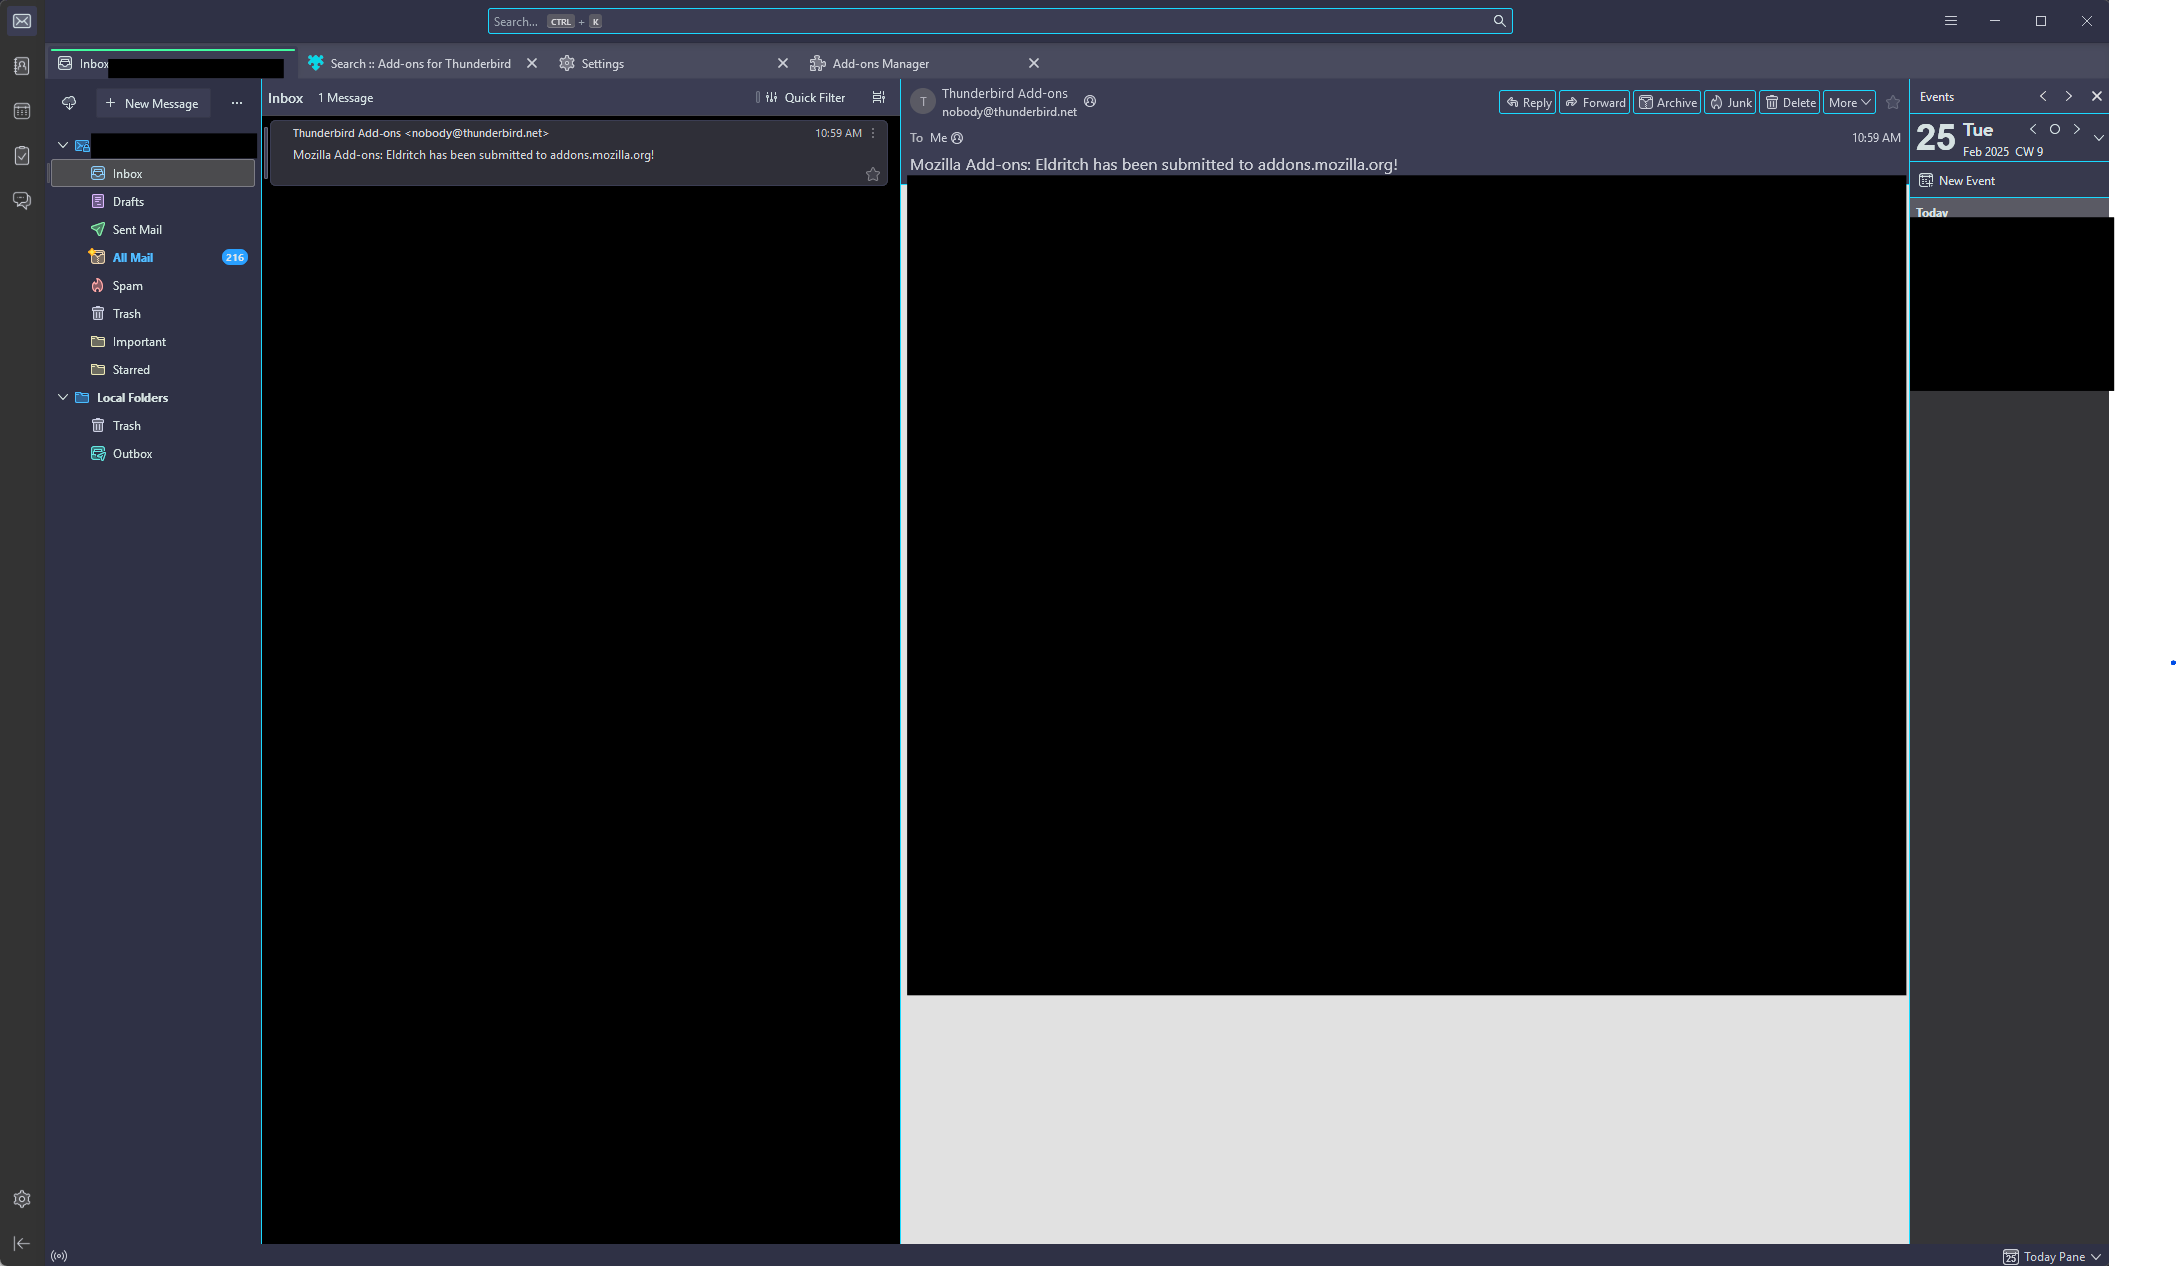
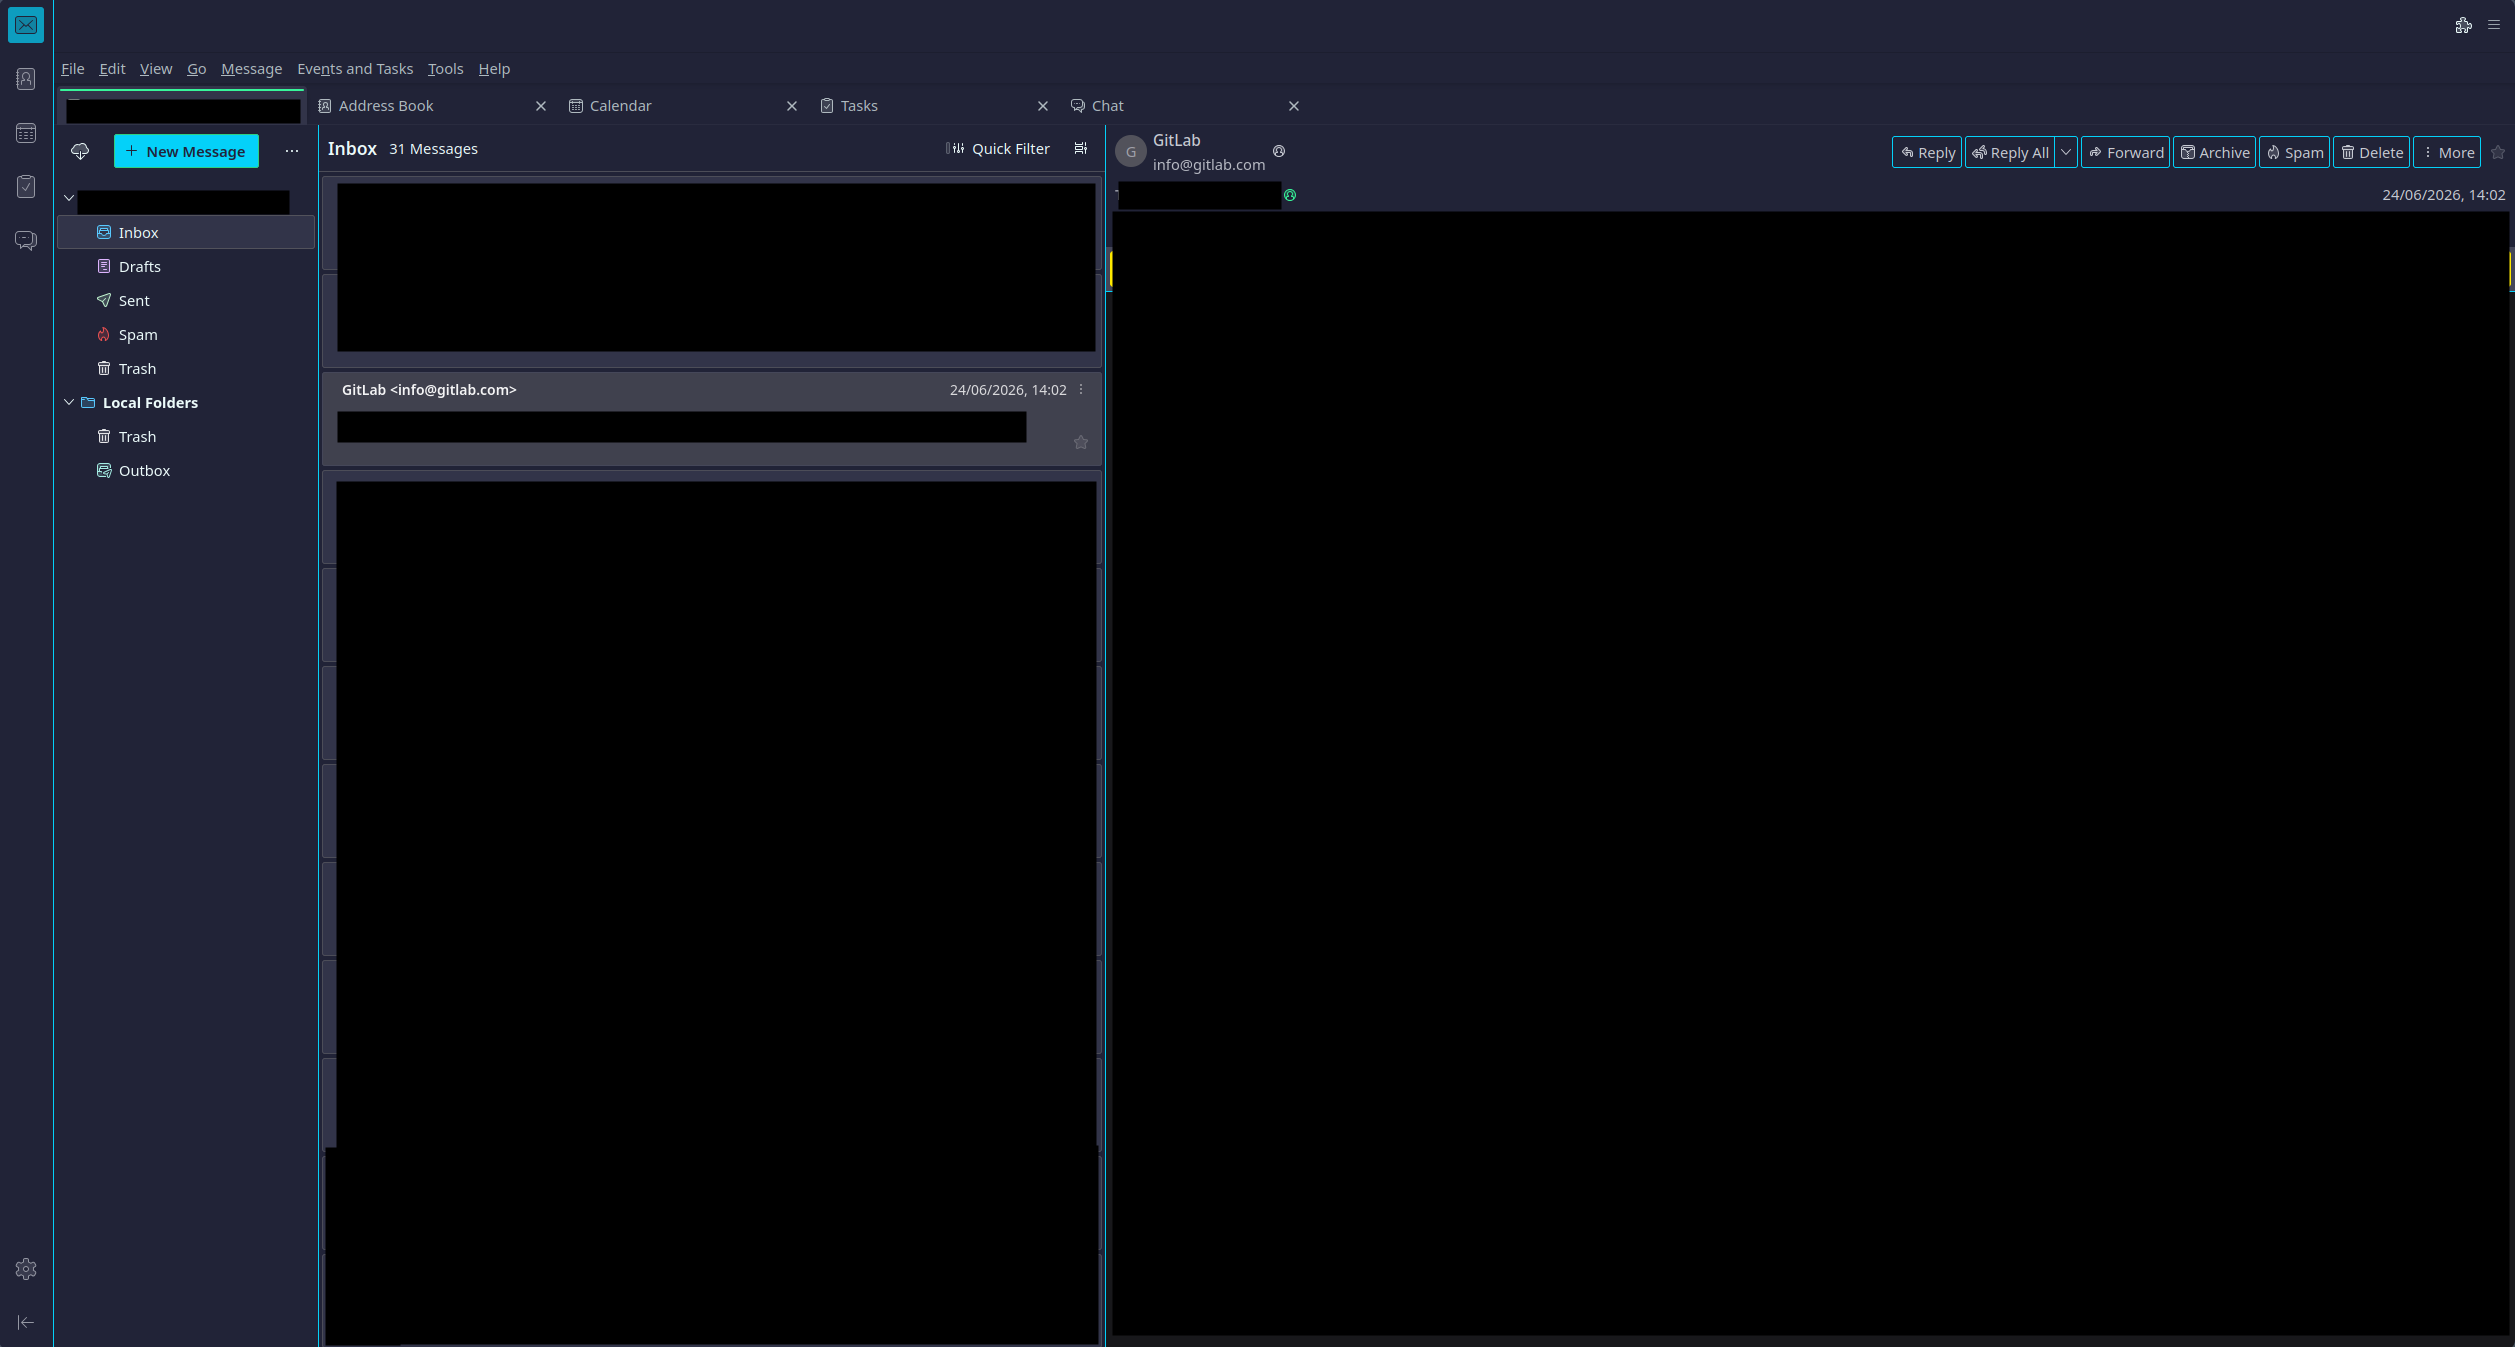
added Screenshots to README (#2)

diff --git a/README.md b/README.md
@@ -12,6 +12,8 @@ Main Theme repo can be found [here](https://github.com/eldritch-theme/eldritch)
 <!-- Your screenshot should go here -->
 <img src="screenshot.png" alt="Screenshot"/><br/>
 
+<img src="screenshot2.png" alt="Screenshot"/><br/>
+
 ### Installation
 1. https://github.com/eldritch-theme/thunderbird and install
 
